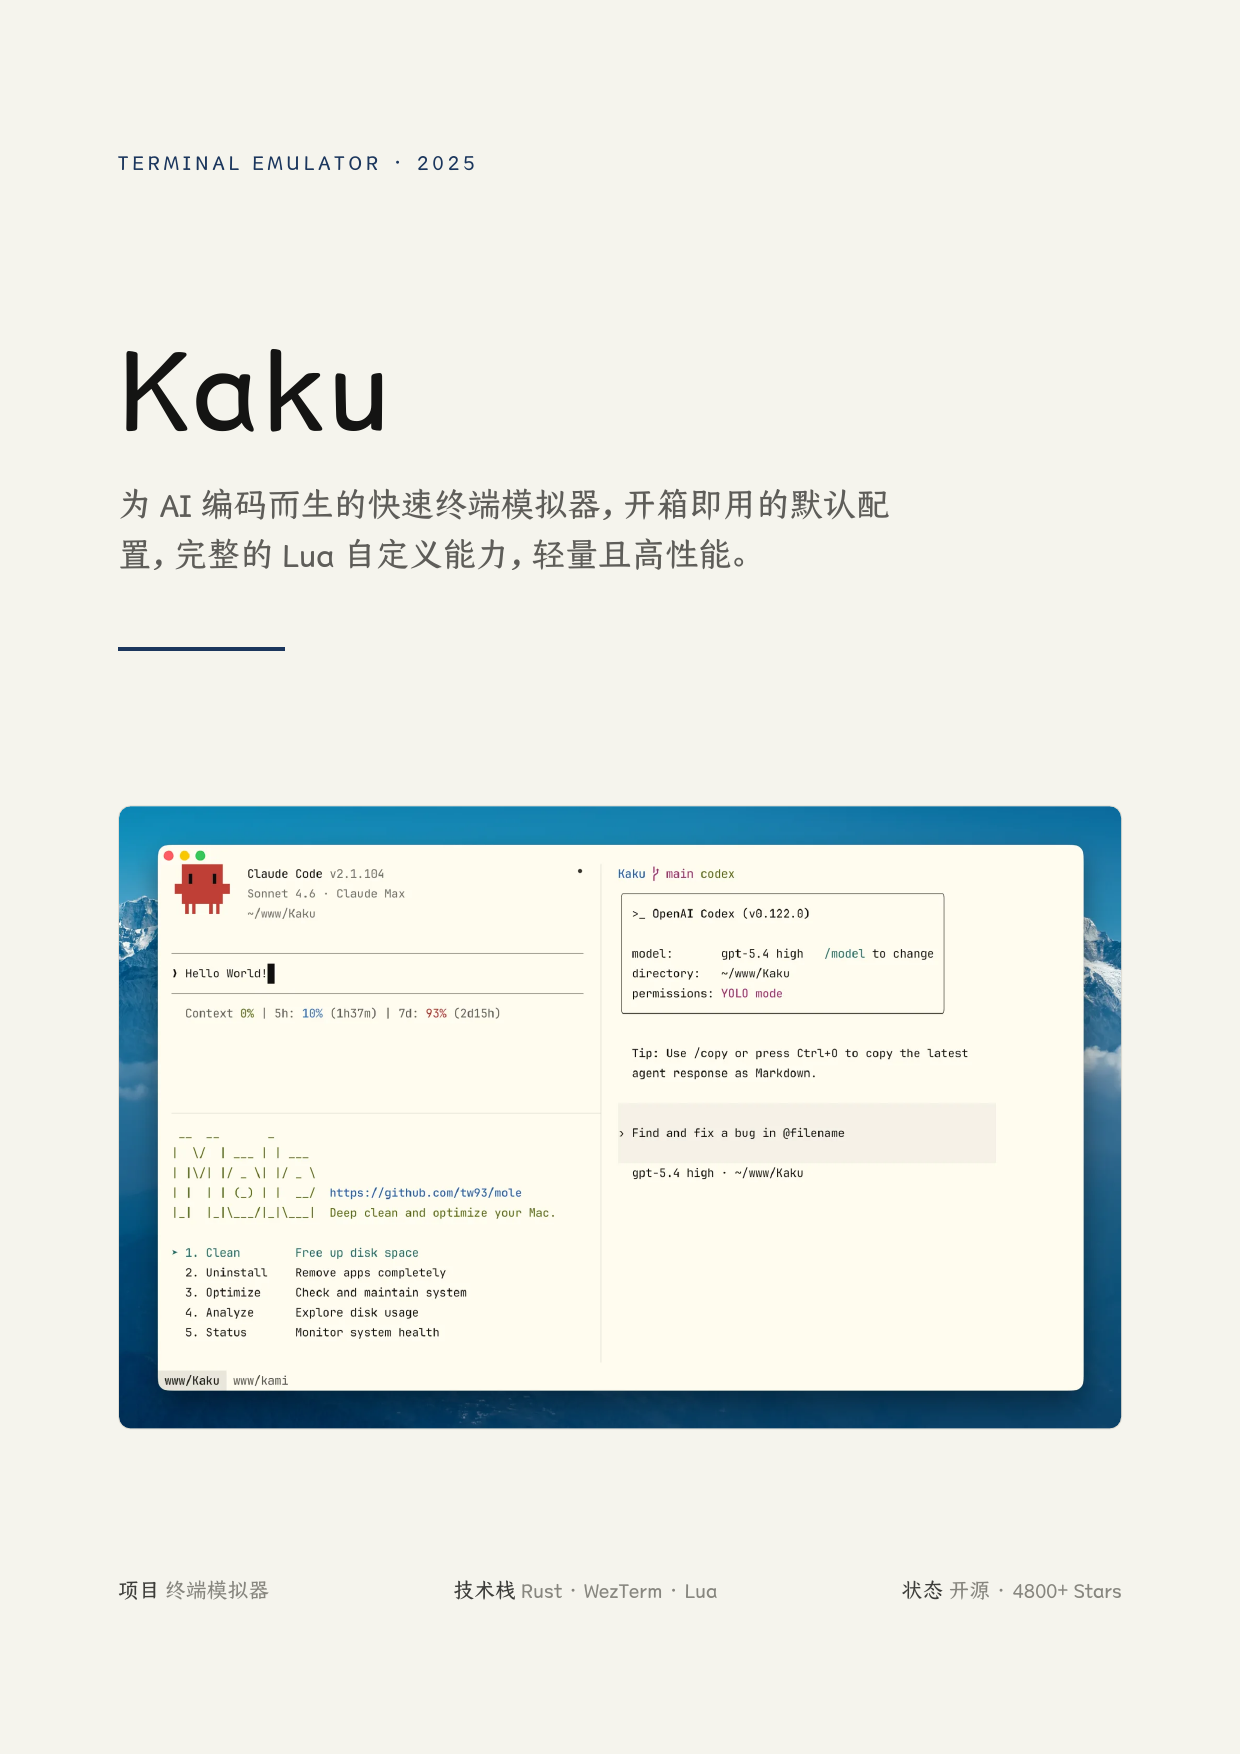
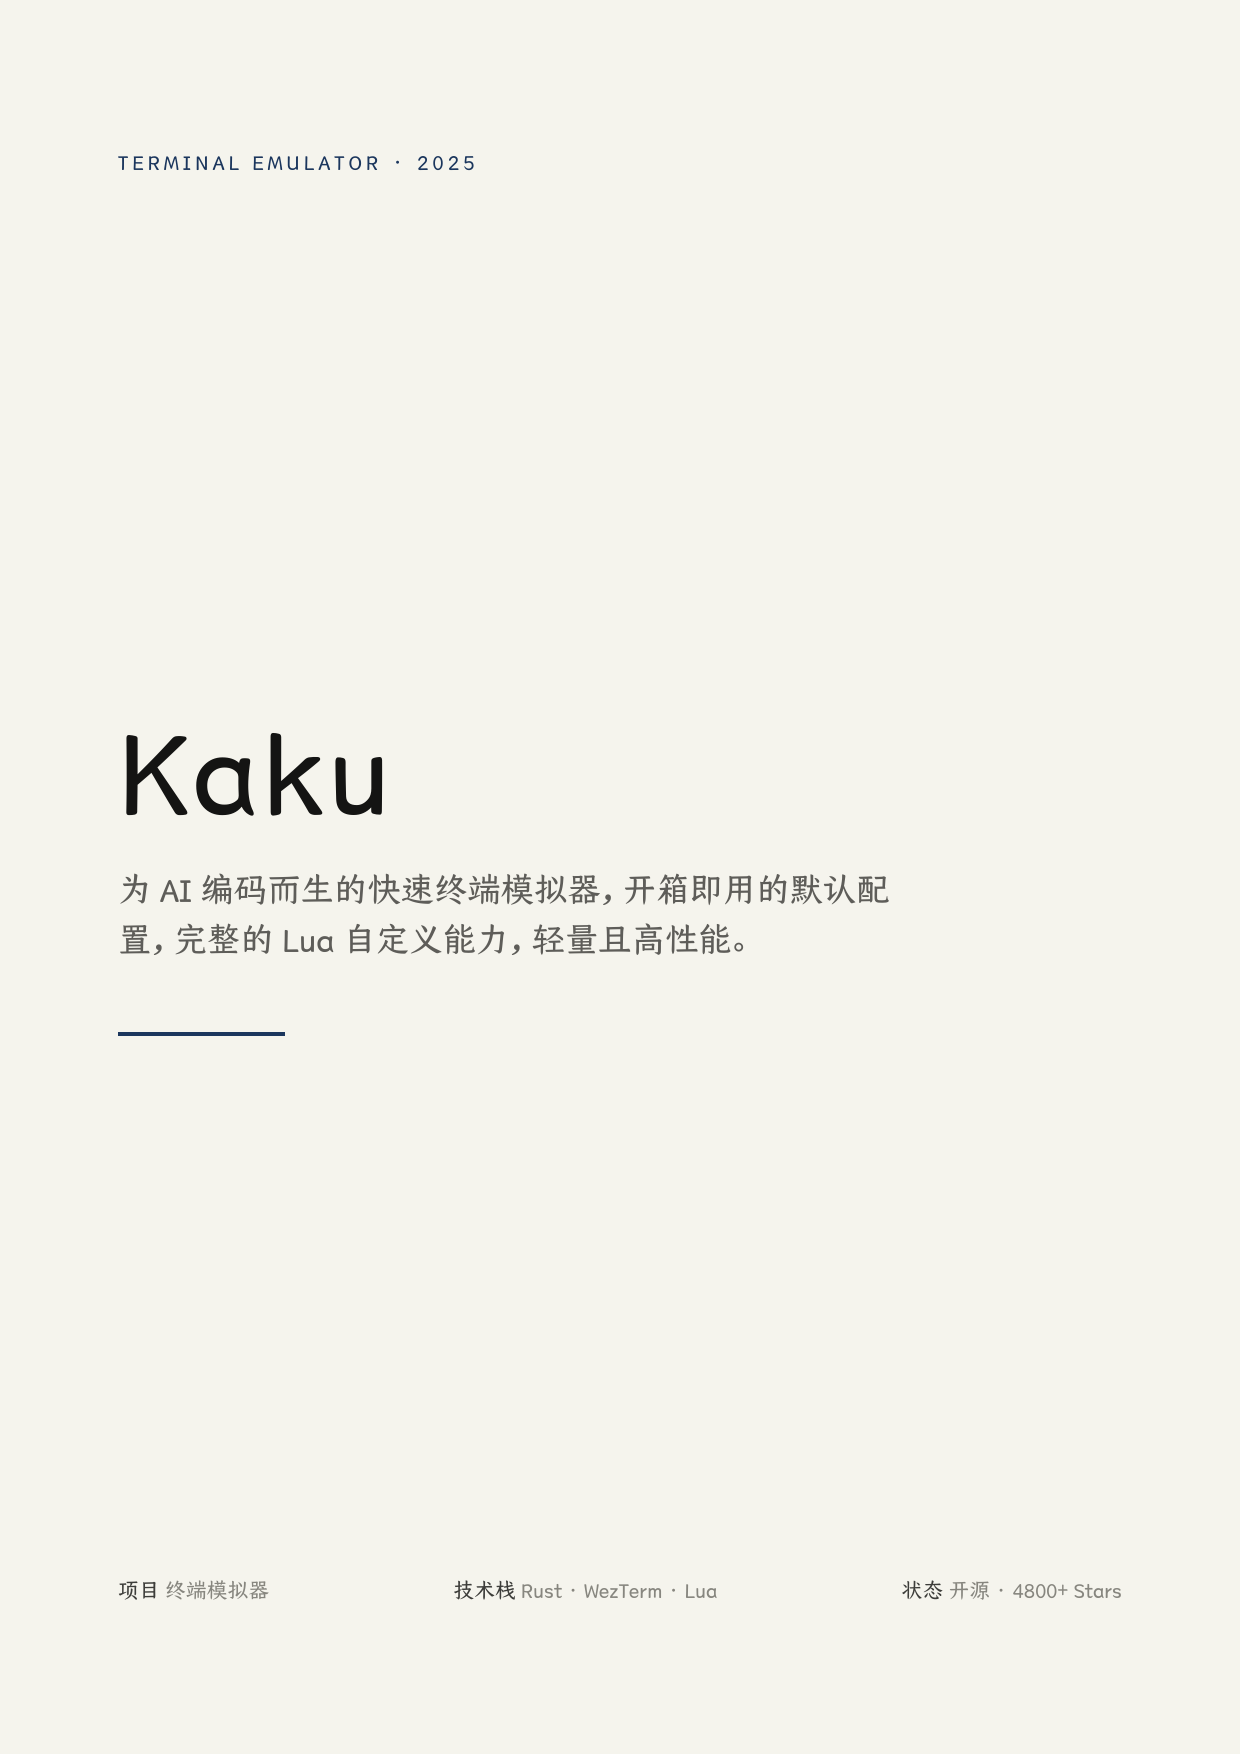
fix: remove cover screenshot from kaku demo, keep it in About section only

diff --git a/assets/demos/demo-kaku.html b/assets/demos/demo-kaku.html
@@ -446,17 +446,6 @@
   }
   .opt-card p { font-size: 9pt; line-height: 1.45; color: var(--charcoal); }
 
-  /* ════════════ SCREENSHOTS ════════════ */
-  .cover-preview {
-    border-radius: 6pt;
-    overflow: hidden;
-    border: 0.5pt solid #e0ddd4;
-  }
-  .cover-preview img {
-    display: block;
-    width: 100%;
-    height: auto;
-  }
   .contact-screenshot {
     margin-top: 28pt;
     border-radius: 8pt;
@@ -501,10 +490,6 @@
     <div class="cover-name">Kaku</div>
     <div class="cover-tagline">为 AI 编码而生的快速终端模拟器，开箱即用的默认配置，完整的 Lua 自定义能力，轻量且高性能。</div>
     <div class="cover-line"></div>
-  </div>
-
-  <div class="cover-preview">
-    <img src="../../../kaku/website/public/shots/kaku-light.webp" alt="Kaku terminal interface">
   </div>
 
   <div class="cover-meta">
